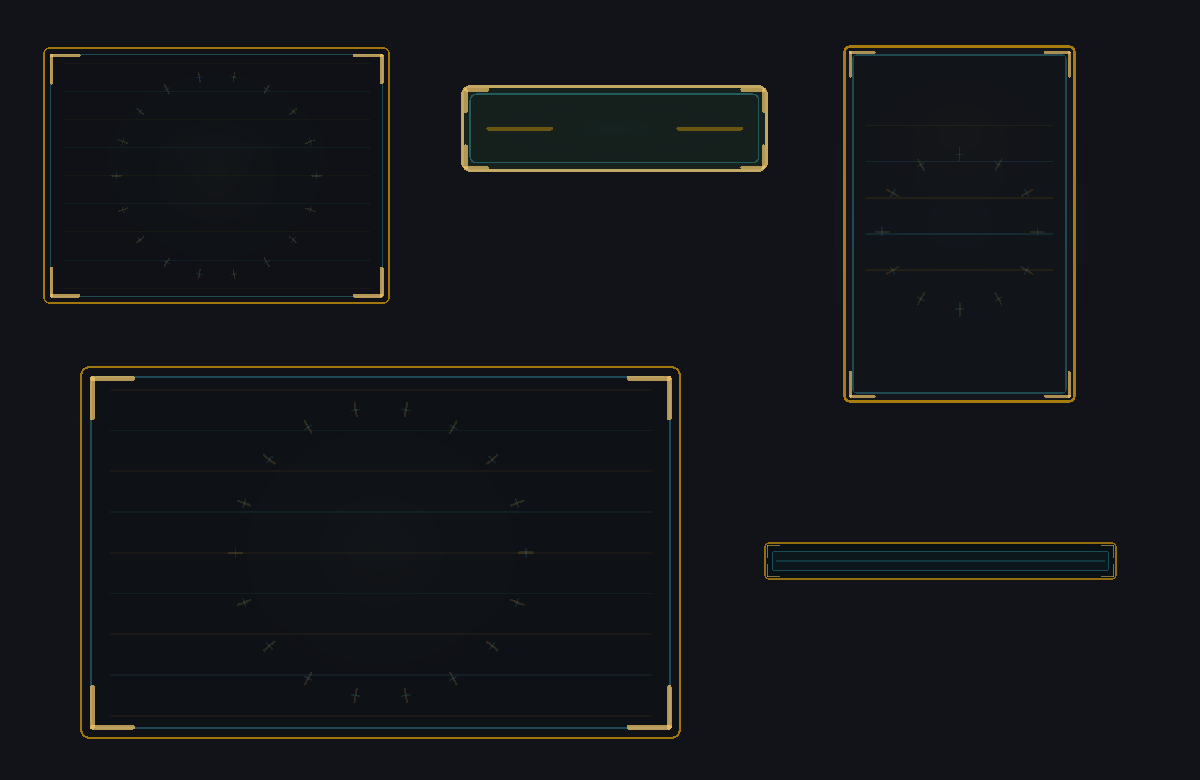
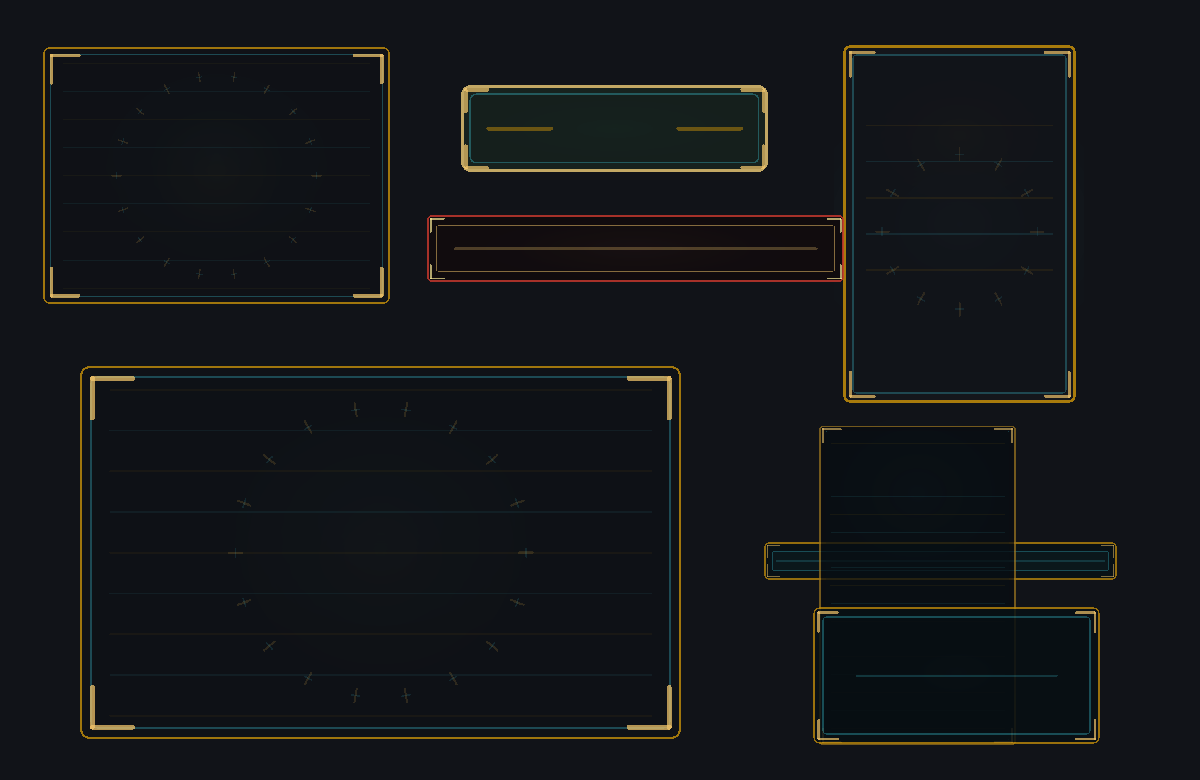
feat: 完善HUD与提示界面皮肤

diff --git a/game.js b/game.js
@@ -8441,6 +8441,15 @@ class GameManager {
         const wave = Math.floor(this.gameTime / 60);
         ctx.textAlign = 'right';
         ctx.fillText(`第 ${wave + 1} 波`, this.canvas.width - 10, 95);
+        if (hasBoss && drawArtUiTexture(ctx, 'warning_banner', this.canvas.width / 2 - 260, 82, 520, 92, 0.92)) {
+            ctx.textAlign = 'center';
+            ctx.fillStyle = '#ffef9a';
+            ctx.font = 'bold 18px Arial';
+            ctx.fillText(`守将来袭：${STAGES[this.currentStage].boss}`, this.canvas.width / 2, 118);
+            ctx.fillStyle = '#ff6b4d';
+            ctx.font = '14px Arial';
+            ctx.fillText(STAGES[this.currentStage].description, this.canvas.width / 2, 143);
+        }
 
         // ========== 最右侧：已获得武器与被动技能状态栏 ==========
         const statusX = this.canvas.width - 180;
@@ -8452,11 +8461,14 @@ class GameManager {
         const finalBoxHeight = 40 + (this.player.weapons.length * itemHeight) + 8 + itemHeight + (10 * itemHeight) + 15;
 
         // 半透明背景
-        ctx.fillStyle = 'rgba(0, 0, 0, 0.5)';
-        ctx.fillRect(statusX - 5, statusY - 25, panelWidth, finalBoxHeight);
-        ctx.strokeStyle = '#666666';
-        ctx.lineWidth = 1;
-        ctx.strokeRect(statusX - 5, statusY - 25, panelWidth, finalBoxHeight);
+        const usedStatusSkin = drawArtUiTexture(ctx, 'status_panel', statusX - 10, statusY - 30, panelWidth + 10, finalBoxHeight + 8, 0.82);
+        if (!usedStatusSkin) {
+            ctx.fillStyle = 'rgba(0, 0, 0, 0.5)';
+            ctx.fillRect(statusX - 5, statusY - 25, panelWidth, finalBoxHeight);
+            ctx.strokeStyle = '#666666';
+            ctx.lineWidth = 1;
+            ctx.strokeRect(statusX - 5, statusY - 25, panelWidth, finalBoxHeight);
+        }
 
         // 标题：武器
         ctx.fillStyle = '#b8860b';
@@ -8733,6 +8745,7 @@ class GameManager {
         // 半透明黑色遮罩
         ctx.fillStyle = 'rgba(0, 0, 0, 0.7)';
         ctx.fillRect(0, 0, this.canvas.width, this.canvas.height);
+        drawArtUiTexture(ctx, 'pause_panel', this.canvas.width / 2 - 220, this.canvas.height / 2 - 126, 440, 220, 0.9);
 
         // 文字
         ctx.fillStyle = '#ffffff';
